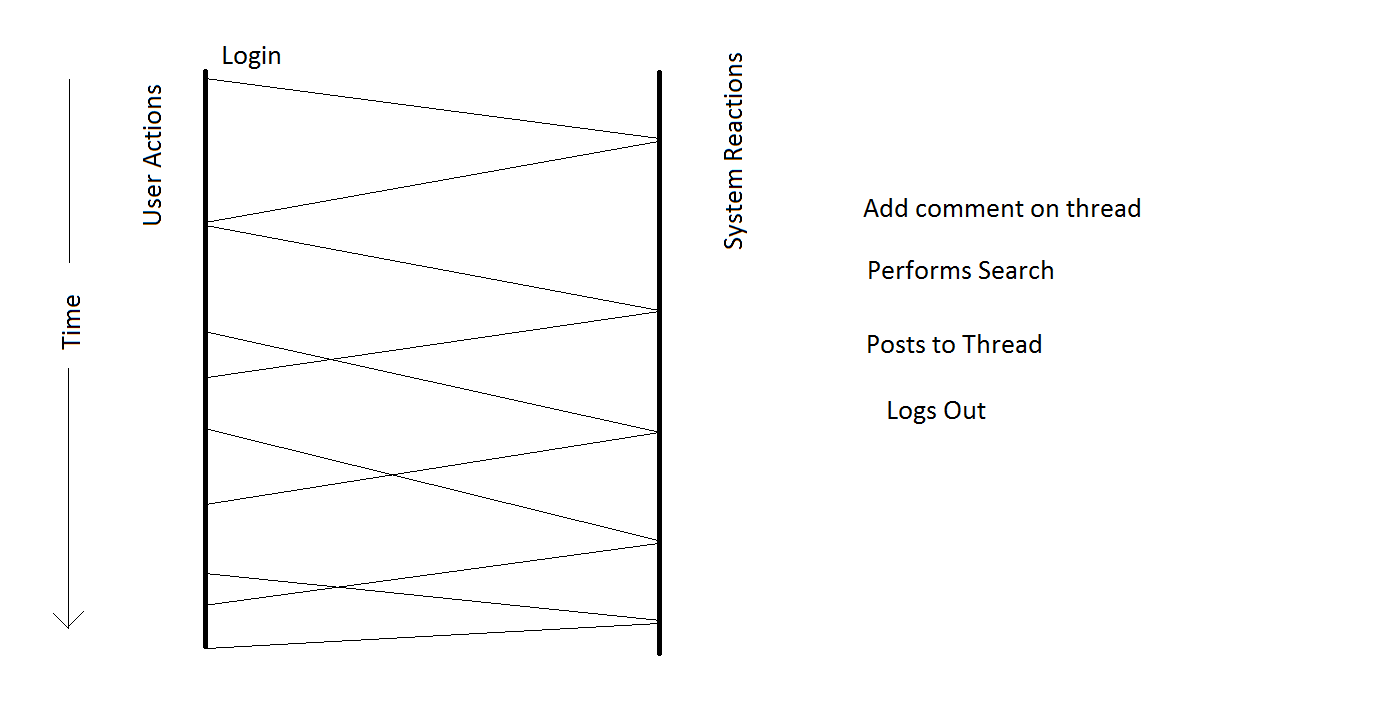
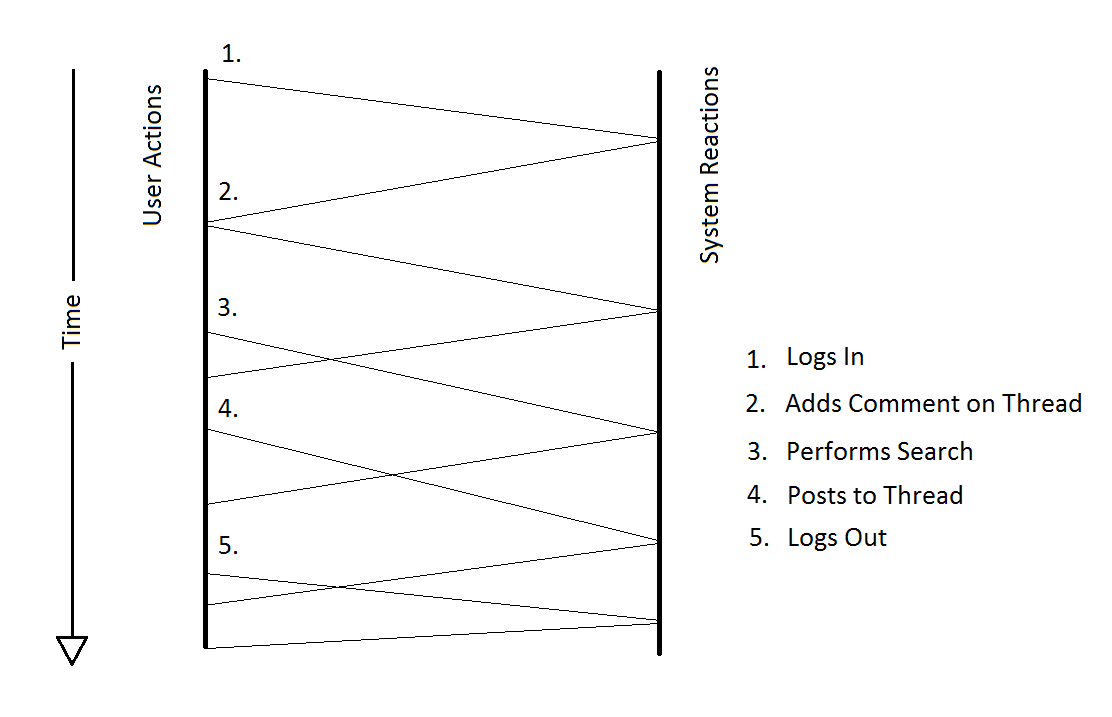
cleaned up the search for images, messages, and threads. Removed search.php page

diff --git a/ac.css b/ac.css
@@ -31,3 +31,6 @@ h1 {
 	color:#3a3;
 }
 
+img {
+	width:100%;
+}

diff --git a/index.php b/index.php
@@ -14,29 +14,61 @@ include "acHeader.php";
 			<p>
 			Use the navbar to navigate through the various aspects of the system.
 			</p>
-			<a id="influences">Influences</a>
-			<div id="moreInfluences" style="display:none">
-				<h2>Front Porch Forum</h2>
-				<p>
-				Vermonters across the state will realize the impact Front Porch Forum (FPF) has had on our communities. In Montpelier, the length of the daily postings grew so long that FPF decided to send out shorter postings more frequently so that email readers would not cut the messages short. ArtConnect Vermont borrows elements from FPF’s community-building platform such as allowing users to see each other’s address, name and email.
-				</p>
-				<h2>Slack</h2>
-				<p>
-				Slack is another software package that has influenced users looking for ways to connect. It allows users to form a team. Within a team, members can send messages, upload files, create messages within any subset of the team (including one-to-one), and create “threads”, which can be named and provide a way of organizing communications. All information sharing is limited to the team. ArtConnect uses many of these lines of communication but opens them to a broader group of people.
-				</p>
+			<ul class="list-group">
+				<li class="list-group-item list-group-item-success">
+					<a id="extra">&rarr; ArtConnect Vermont Background</a>
+				</li>
+				<div id="more" style="display:none">
+					<p>
+					Community is very important to Vermonters. 
+					We often pride ourselves on the interconnected web that is Vermont’s citizenry. 
+					The second fiddle player you see at an evening of baroque music could be your neighbor’s car mechanic. 
+					Your child’s ski instructor could also be your state representative. 
+					In addition to the fact that Vermont is a small state, these connections are possible because many, if not all, 
+					Vermonters are multi-talented and spread their daily routines among various occupations and pursuits. 
+					</p>
+					<p>
+					Included in the state’s population is a large subgroup of artists and makers. 
+					ArtConnect Vermont deploys software that connects artists with other artists, with potential buyers, 
+					with calendar listings throughout the various regions of the state for calls to artists, current and upcoming exhibitions, 
+					and show receptions. There are also threads that can help organize ArtConnect communication. 
+					Threads are artist-made, titled discussion forums. 
+					Potential threads include a thread to share information about available studio space called Studio Space or 
+					one to critique each other’s work called Critiques. Artists can also initiate individual or group conversations. 
+					These conversations are useful as artists might be looking for ideas of where to show their work or what other artists 
+					they could look at for inspiration. These types of conversation are better suited for smaller groups, or one-to-one. 
+					</p>
+				</div>
+				<li class="list-group-item list-group-item-success">
+					<a id="influences">&rarr; Influences</a>
+				</li>
+				<div id="moreInfluences" style="display:none">
+					<h2>Front Porch Forum</h2>
+					<p>
+					Vermonters across the state will realize the impact Front Porch Forum (FPF) has had on our communities. In Montpelier, the length of the daily postings grew so long that FPF decided to send out shorter postings more frequently so that email readers would not cut the messages short. ArtConnect Vermont borrows elements from FPF’s community-building platform such as allowing users to see each other’s address, name and email.
+					</p>
+					<h2>Slack</h2>
+					<p>
+					Slack is another software package that has influenced users looking for ways to connect. It allows users to form a team. Within a team, members can send messages, upload files, create messages within any subset of the team (including one-to-one), and create “threads”, which can be named and provide a way of organizing communications. All information sharing is limited to the team. ArtConnect uses many of these lines of communication but opens them to a broader group of people.
+					</p>
 
-				<h2>Etsy</h2>
-				<p>
-				Etsy is a platform for artists and other small-scale production groups or individuals to sell their artwork and/or products. Anyone with access to Etsy’s website can search through any vendor’s merchandise and buy it. Vendors pay a small fee to post items so that users can search and find them. ArtConnect members can sell their work on our platform.
-				</p>
-			</div>
-			
-			<br><a id="diff">How is ArtConnect Vermont Different?</a>
-			<div id="moreDiff" style="display:none">
-				ArtConnect is a system that is most like Slack. The difference being that all users on the platform are, in a sense, part of the same team. That is, all users (depending on privilege – see User Roles below) can send messages to one another and follow all threads on ArtConnect. Within the system, any user can send a message to any other user, or any subset of users. Users can upload files (images [.jpg, .jpeg] and text [.txt, .pdf], for now) and share them with any group. As with FPF, when signing up, users will provide their address. This provides the community with a sense of where its members are located. Some of the above activity is not available to all ArtConnect users. For clarity on user roles, see the User Roles section below.
-			</div>
+					<h2>Etsy</h2>
+					<p>
+					Etsy is a platform for artists and other small-scale production groups or individuals to sell their artwork and/or products. Anyone with access to Etsy’s website can search through any vendor’s merchandise and buy it. Vendors pay a small fee to post items so that users can search and find them. ArtConnect members can sell their work on our platform.
+					</p>
+				</div>
+				<li class="list-group-item list-group-item-success">
+					<a id="diff">&rarr; How is ArtConnect Vermont Different?</a>
+				</li>
+				<div id="moreDiff" style="display:none">
+					ArtConnect is a system that is most like Slack. The difference being that all users on the platform are, in a sense, part of the same team. That is, all users (depending on privilege – see User Roles below) can send messages to one another and follow all threads on ArtConnect. Within the system, any user can send a message to any other user, or any subset of users. Users can upload files (images [.jpg, .jpeg] and text [.txt, .pdf], for now) and share them with any group. As with FPF, when signing up, users will provide their address. This provides the community with a sense of where its members are located. Some of the above activity is not available to all ArtConnect users. For clarity on user roles, see the User Roles section below.
+				</div>
+			</ul>
 			<script>
 			$(document).ready(function() {
+				$("#extra").click(function() {
+					$("#more").fadeToggle();
+				});
 				$("#influences").click(function() {
 					$("#moreInfluences").fadeToggle();
 				});

diff --git a/lowleveldesign.php b/lowleveldesign.php
@@ -12,43 +12,11 @@ include "acHeader.php";
 			including what should be on each page, how pages are interconnected, how individual pages interact with the database,
 			and what session variables will be accessible while a user is logged in.
 			</p>
-			<a id="extra">
-			&rarr; ArtConnect Vermont Background
-			</a>
-			<script>
-			$(document).ready(function() {
-				$("#extra").click(function() {
-					$("#more").fadeToggle();
-				});
-			});
-			</script>
-			<div id="more" style="display:none">
-				<p>
-				Community is very important to Vermonters. 
-				We often pride ourselves on the interconnected web that is Vermont’s citizenry. 
-				The second fiddle player you see at an evening of baroque music could be your neighbor’s car mechanic. 
-				Your child’s ski instructor could also be your state representative. 
-				In addition to the fact that Vermont is a small state, these connections are possible because many, if not all, 
-				Vermonters are multi-talented and spread their daily routines among various occupations and pursuits. 
-				</p>
-				<p>
-				Included in the state’s population is a large subgroup of artists and makers. 
-				ArtConnect Vermont deploys software that connects artists with other artists, with potential buyers, 
-				with calendar listings throughout the various regions of the state for calls to artists, current and upcoming exhibitions, 
-				and show receptions. There are also threads that can help organize ArtConnect communication. 
-				Threads are artist-made, titled discussion forums. 
-				Potential threads include a thread to share information about available studio space called Studio Space or 
-				one to critique each other’s work called Critiques. Artists can also initiate individual or group conversations. 
-				These conversations are useful as artists might be looking for ideas of where to show their work or what other artists 
-				they could look at for inspiration. These types of conversation are better suited for smaller groups, or one-to-one. 
-				</p>
-			</div>
-		</div>
-	</div>
-	<div class="row">
-		<div class="col-md-8 col-md-offset-2">
+			<p>
+			<a href="index.php">To view information on ArtConnect Vermont's Background, click here.</a>
+			
 			<h1>Page Design</h1>
-			<img width="100%" src="pagesDesign.png" alt="Image Temporarily Unavailable">
+			<img src="pagesDesign.png" alt="Image Temporarily Unavailable">
 			<p>
 			The page design diagram indicates the dependency hierarchy within the page structure of ArtConnect Vermont.
 			Dependency flows upward, such that elements below depend on elements above them.
@@ -56,10 +24,37 @@ include "acHeader.php";
 			<span class='codeExample'>Buyer</span> or <span class='codeExample'>Member</span>.
 			</p>
 			<p>
-			If the clusters of arrows between account types and the lower pages are confusing, simply put, guests only have access to 
-			the search, threads, and images pages, whereas members and buyers have access to all pages.
-			
+			If the clusters of arrows between account types and the lower pages are confusing, simply put, guests have access to 
+			the calendar, threads, and images pages, whereas members and buyers have access to all pages.
 			</p>
+			<h1>User/System Interaction Example</h1>
+			<img src="interactions.png" alt="Image Temporarily Unavailable">
+			<p>
+			This diagram shows potential interactions between a user and the ArtConnect Vermont system.
+			Recognize that the user cannot perform any actions within the system before logging in.
+			Once logged in, other actions can occur regardless of whether the system has responded.
+			</p>
+			<h1>Searching</h1>
+			<p>
+			Searches performed within the ArtConnect application will be implemented using PHP. 
+			Queries are dynamically build, depending on user input. A different query is built depending on which search criteria the user included. 
+			Searches can include one or multiple criteria.
+			</p>
+			<p>
+			The following is an example of a query build in PHP.
+			</p>
+			<pre class="codeExample">
+
+<span class="codeComment">// Process search inputs from user</span>
+
+$query = "SELECT i.filename, i.media, i.price, i.title, u.firstname, u.lastname
+          FROM imagesTable i 
+          JOIN users u ON i.artistID = u.userID
+          WHERE u.username = '$username';";
+		  
+<span class="codeComment">// Send query to the database and display results to the user</span>
+			
+			</pre>
 		</div>
 	</div>
 </div>

diff --git a/calendar.php b/calendar.php
@@ -1,0 +1,60 @@
+<?php
+include "acHeader.php";
+?>
+<div class='container'>
+	<div class="row">
+		<div class="col-md-8 col-md-offset-2">
+			<h1>Calendar Page</h1>
+			<p>
+			The calendar page shows a subset of all activites that have been posted to ArtConnect Vermont. To add an event to the calendar,
+			a user clicks <span class="codeExample">New Event</span>. The new event window contains several fields. 
+			Events can be one-day events or multiple-day events. In the list below, date refers to a one-day event, and begin and end dates refer to a multi-day event.
+			</p>
+			<ul class="list-group">
+				<li class="list-group-item list-group-item-info">
+					<strong><span class="codeExample">Date</span></strong> This is the date for the one-day event.
+				</li>
+				<li class="list-group-item list-group-item-info">
+					<strong><span class="codeExample">Begin Date</span></strong> This is the start date for the multi-day event.
+				</li>
+				<li class="list-group-item list-group-item-info">
+					<strong><span class="codeExample">End Date</span></strong> This is the end date for the multi-day event.
+				</li>
+				<li class="list-group-item list-group-item-info">
+					<strong><span class="codeExample">Event Title</span></strong> Events can be given a title. This is it.
+				</li>
+				<li class="list-group-item list-group-item-info">
+					<strong><span class="codeExample">Description</span></strong> The event description allows a user to define event details, such as recommended apparel or 
+					age range.
+				</li>
+				<li class="list-group-item list-group-item-info">
+					<strong><span class="codeExample">Price</span></strong> The event's price goes here.
+				</li>
+				<li class="list-group-item list-group-item-info">
+					<strong><span class="codeExample">Ticket URL</span></strong> If tickets are being sold online, a link to the ticketing website is provided.
+				</li>
+			</ul>
+			<h1>Searching</h1>
+			<p>
+			Calendar activities can be searched based on the following criteria:
+			</p>
+			<ul class="list-group">
+				<li class="list-group-item list-group-item-success">
+					<strong><span class="codeExample">Location</span></strong> Calendar events have a location (city or town). Users can search based on the distance from
+					a town. If a user inputs Brattleboro and distance 0, only events taking place in Brattleboro will be listed.
+				</li>
+				<li class="list-group-item list-group-item-success">
+					<strong><span class="codeExample">Date Range</span></strong> Calendar listings have a start date and an end date. A search can include any date range.
+				</li>
+				<li class="list-group-item list-group-item-success">
+					<strong><span class="codeExample">Event Type</span></strong> Events are listed under one or more types. A search can include any number of types.
+				</li>
+				<li class="list-group-item list-group-item-success">
+					<strong><span class="codeExample">Price</span></strong> Users can search the calendar based on a price range. 
+					A user can input only a lower bound, only an upper bound, or both lower and upper bounds.
+				</li>
+				
+			</ul>
+		</div>
+	</div>
+</div>

diff --git a/images.php b/images.php
@@ -31,20 +31,23 @@ include "acHeader.php";
 			is built depending on which search criteria the user included. Searches can include 1, 2, or all 3 of the criteria above.
 			</p>
 			<p>
-			The following is an example of a query build in PHP.
+			Users can search images based on the following criteria:
 			</p>
-			<pre class="codeExample">
-
-<span class="codeComment">// Process search inputs from user</span>
-
-$query = "SELECT i.filename, i.media, i.price, i.title, u.firstname, u.lastname
-          FROM imagesTable i 
-          JOIN users u ON i.artistID = u.userID
-          WHERE u.username = '$username';";
-		  
-<span class="codeComment">// Send query to the database and display results to the user</span>
+			<ul class="list-group">
+				<li class="list-group-item list-group-item-success">
+					<strong><span class="codeExample">The Poster</span></strong>
+				</li>
+				<li class="list-group-item list-group-item-success">
+					<strong><span class="codeExample">The Artist</span></strong>
+				</li>
+				<li class="list-group-item list-group-item-success">
+					<strong><span class="codeExample">The Medium/Media</span></strong>
+				</li>
+				<li class="list-group-item list-group-item-success">
+					<strong><span class="codeExample">The Genre (landscape, still life, portrait, etc.</span></strong>
+				</li>
+			</ul>				
 			
-			</pre>
 		</div>
 	</div>
 </div>

diff --git a/threads.php b/threads.php
@@ -22,23 +22,21 @@ include "acHeader.php";
 			see that thread in the list of their threads. That is, once a user has joined a thread, they need not search 
 			for that thread using the search page.
 			</p>
-			<!--
-			<h1>Example</h1>
-			<div class="codeExample">
-				<div class="codeComment">
-					// Boolean function which returns true if user is logged in<br>
-				</div>
-				isLoggedIn() {<br>
-				<div class="codeComment">
-					// Show contents of page<br>
-				</div>
-				} else {<br>
-				<div class="codeComment">
-					// Send user to login page<br>
-				</div>
-				}
-			</div>
-			-->
+			<h1>Searching</h1>
+			<p>
+			Users can search threads based on the following criteria:
+			</p>
+			<ul class="list-group">
+				<li class="list-group-item list-group-item-success">
+					<strong><span class="codeExample">The Poster</span></strong>
+				</li>
+				<li class="list-group-item list-group-item-success">
+					<strong><span class="codeExample">Keywords</span></strong>
+				</li>
+				<li class="list-group-item list-group-item-success">
+					<strong><span class="codeExample">Attachment(s)</span></strong>
+				</li>
+			</ul>
 		</div>
 	</div>
 </div>

diff --git a/profile.php b/profile.php
@@ -6,8 +6,8 @@ include "acHeader.php";
 		<div class="col-md-8 col-md-offset-2">
 			<h1>User Profile Page</h1>
 			<p>
-			The user profile page displays all information about a user. Users can upload a profile picture that is displayed next to any
-			message or thread post. Elements of the profile page include
+			The user profile page displays all information about a user. The user can update this information during any session. There is no limit to the number of updates.
+			Users can upload a profile picture that is displayed next to any message or thread post. Elements of the profile page include
 			</p>
 			<ul class="list-group">
 				<li class="list-group-item list-group-item-info">
@@ -27,7 +27,7 @@ include "acHeader.php";
 					send messages, images, or post to a thread.
 				</li>
 				<li class="list-group-item list-group-item-info">
-					<strong><span class="codeExample">Preferences</span></strong>
+					<strong><span class="codeExample">Town</span></strong> Since ArtConnect's goal is to connect local artists, the town of residence is public.
 				</li>
 			</ul>
 			<p>

diff --git a/messages.php b/messages.php
@@ -41,6 +41,24 @@ include "acHeader.php";
 			By default, when the messages page is loaded, users only see the first 10 messages in their pile.
 			Users can see all messages by clicking <span class="codeExample">show all messages</span>.
 			</p>
+			<h1>Searching</h1>
+			<p>
+			Messages can be searched based on the following criteria:
+			</p>
+			<ul class="list-group">
+				<li class="list-group-item list-group-item-success">
+					<strong><span class="codeExample">The Sender</span></strong>
+				</li>
+				<li class="list-group-item list-group-item-success">
+					<strong><span class="codeExample">The Subject</span></strong>
+				</li>
+				<li class="list-group-item list-group-item-success">
+					<strong><span class="codeExample">The Attachment(s)</span></strong>
+				</li>
+				<li class="list-group-item list-group-item-success">
+					<strong><span class="codeExample">The Message Body</span></strong>
+				</li>
+			</ul>
 		</div>
 	</div>
 </div>

diff --git a/code.php b/code.php
@@ -23,11 +23,11 @@ include "acHeader.php";
 					<pre class="codeExample">
 				
 &lt;?php
-	<span class="codeComment">// PHP code here</span>
+    <span class="codeComment">// PHP code here</span>
 ?&gt;
 <span class="codeComment">&lt;!-- HTML here --></span>
 &lt;script&gt;
-	<span class="codeComment">// JavaScript here</span>
+    <span class="codeComment">// JavaScript here</span>
 &lt;/script&gt;
 <span class="codeComment">&lt;!-- More HTML here --></span>
 etc.

diff --git a/acHeader.php b/acHeader.php
@@ -24,6 +24,7 @@
 						<li><a href="login.php">Login</a></li>
 						<li><a href="threads.php">Threads</a></li>
 						<li><a href="messages.php">Messages</a></li>
+						<li><a href="calendar.php">Calendar</a></li>
 						<li><a href="images.php">Images</a></li>
 						<li><a href="search.php">Search</a></li>
 						<li><a href="profile.php">Profile</a></li>

diff --git a/systemdesign.php b/systemdesign.php
@@ -5,7 +5,7 @@ include "acHeader.php";
 	<div class="row">
 		<div class="col-md-8 col-md-offset-2">
 			<h1>System Design</h1>
-			<img width="100%" src="systemdesign.jpg" alt="Image Temporarily Unavailable.">
+			<img src="systemdesign.jpg" alt="Image Temporarily Unavailable.">
 			<h1>Key Concepts</h1>
 			<ul>
 				<li>
